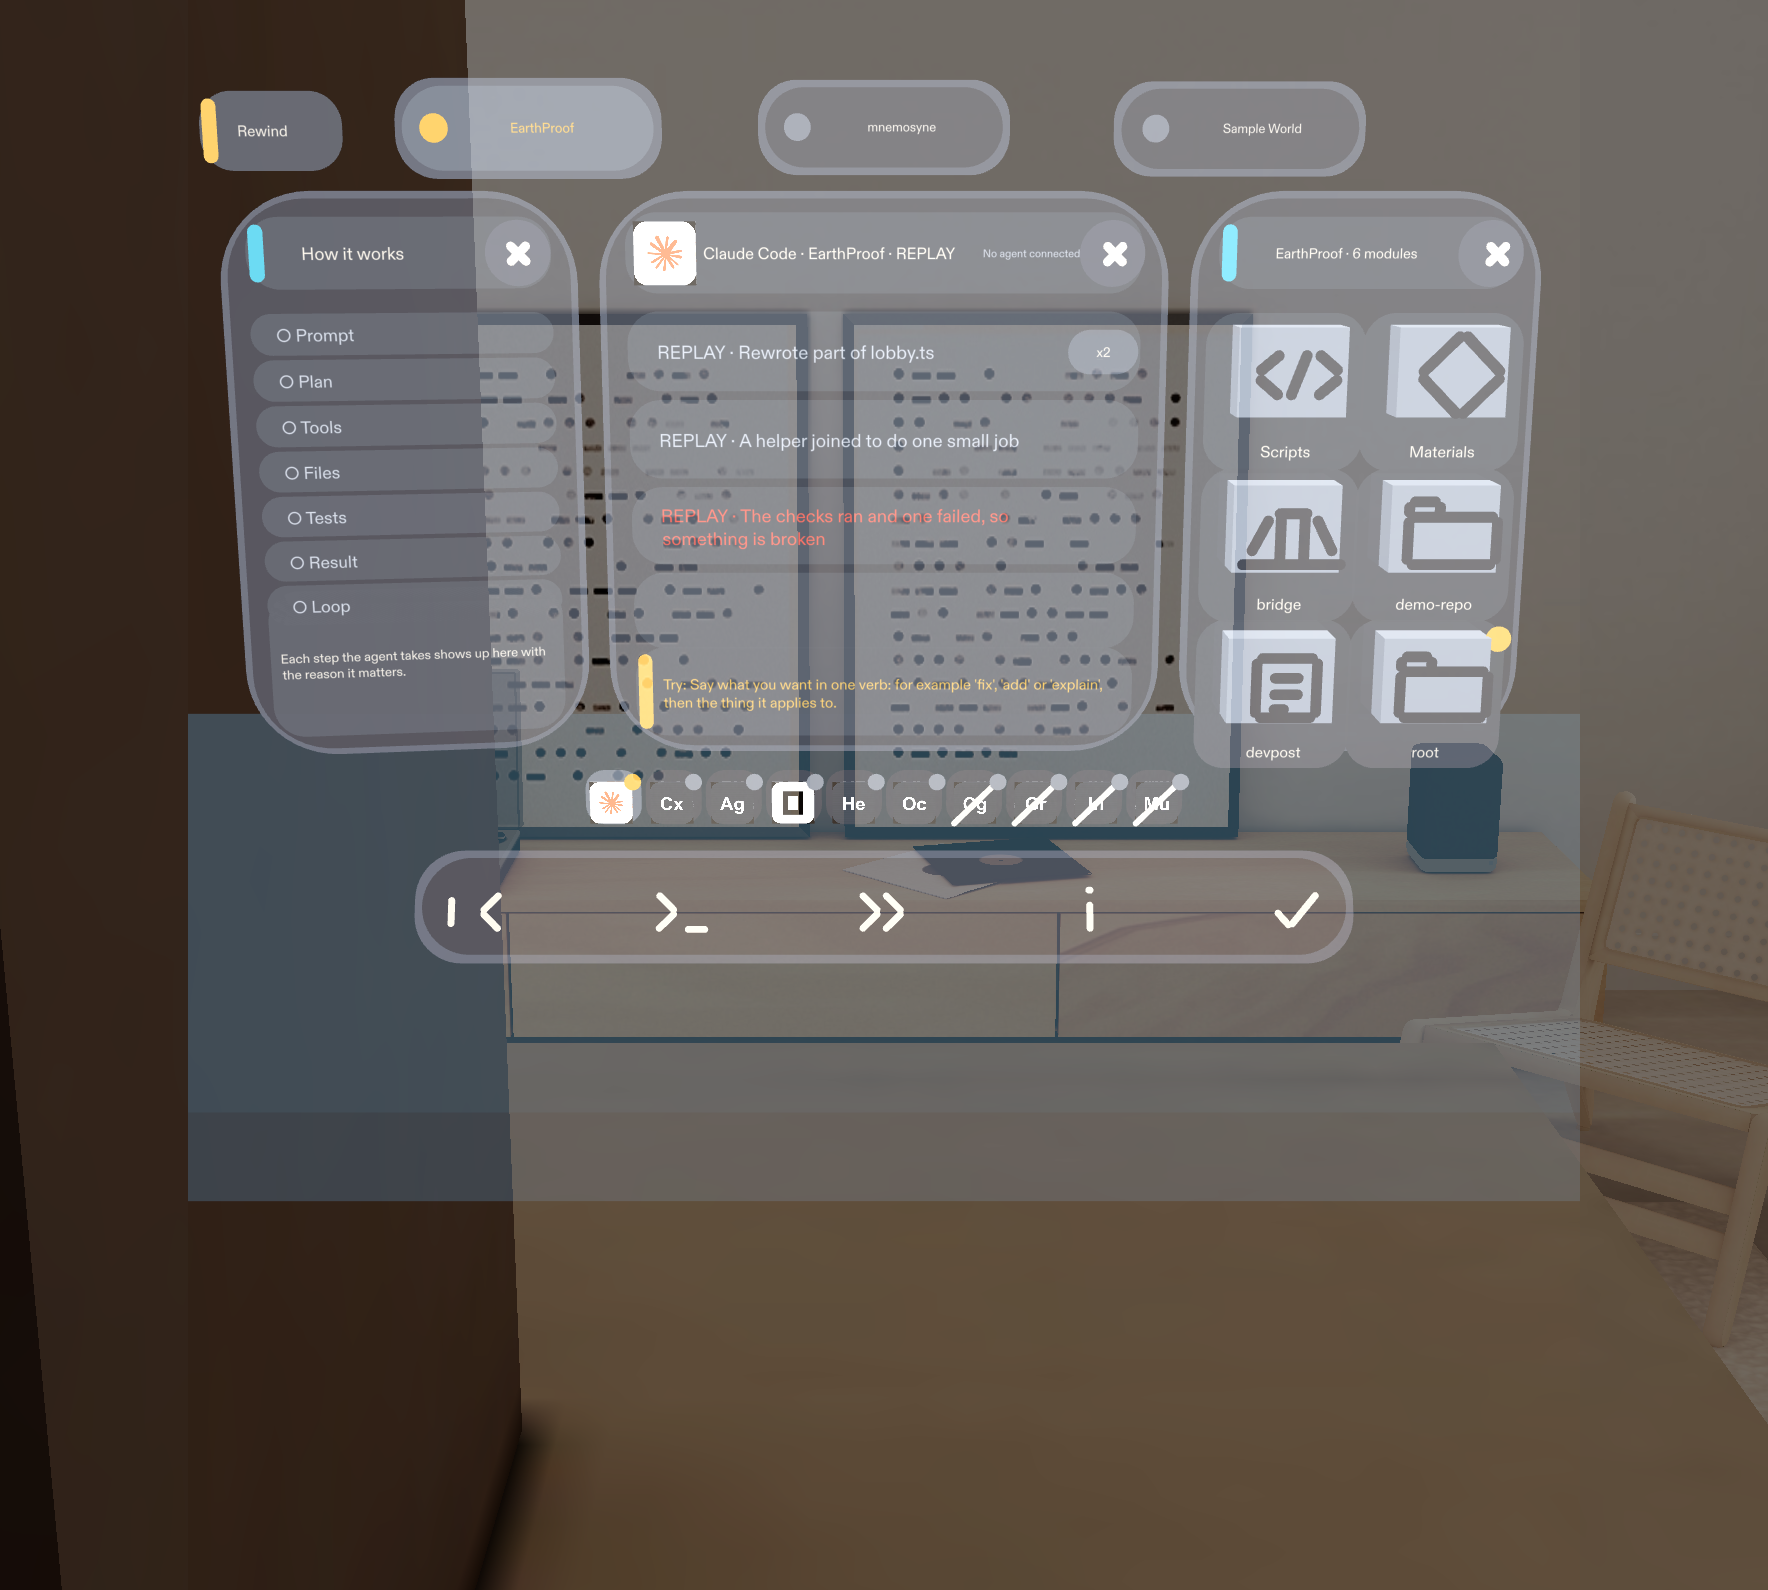
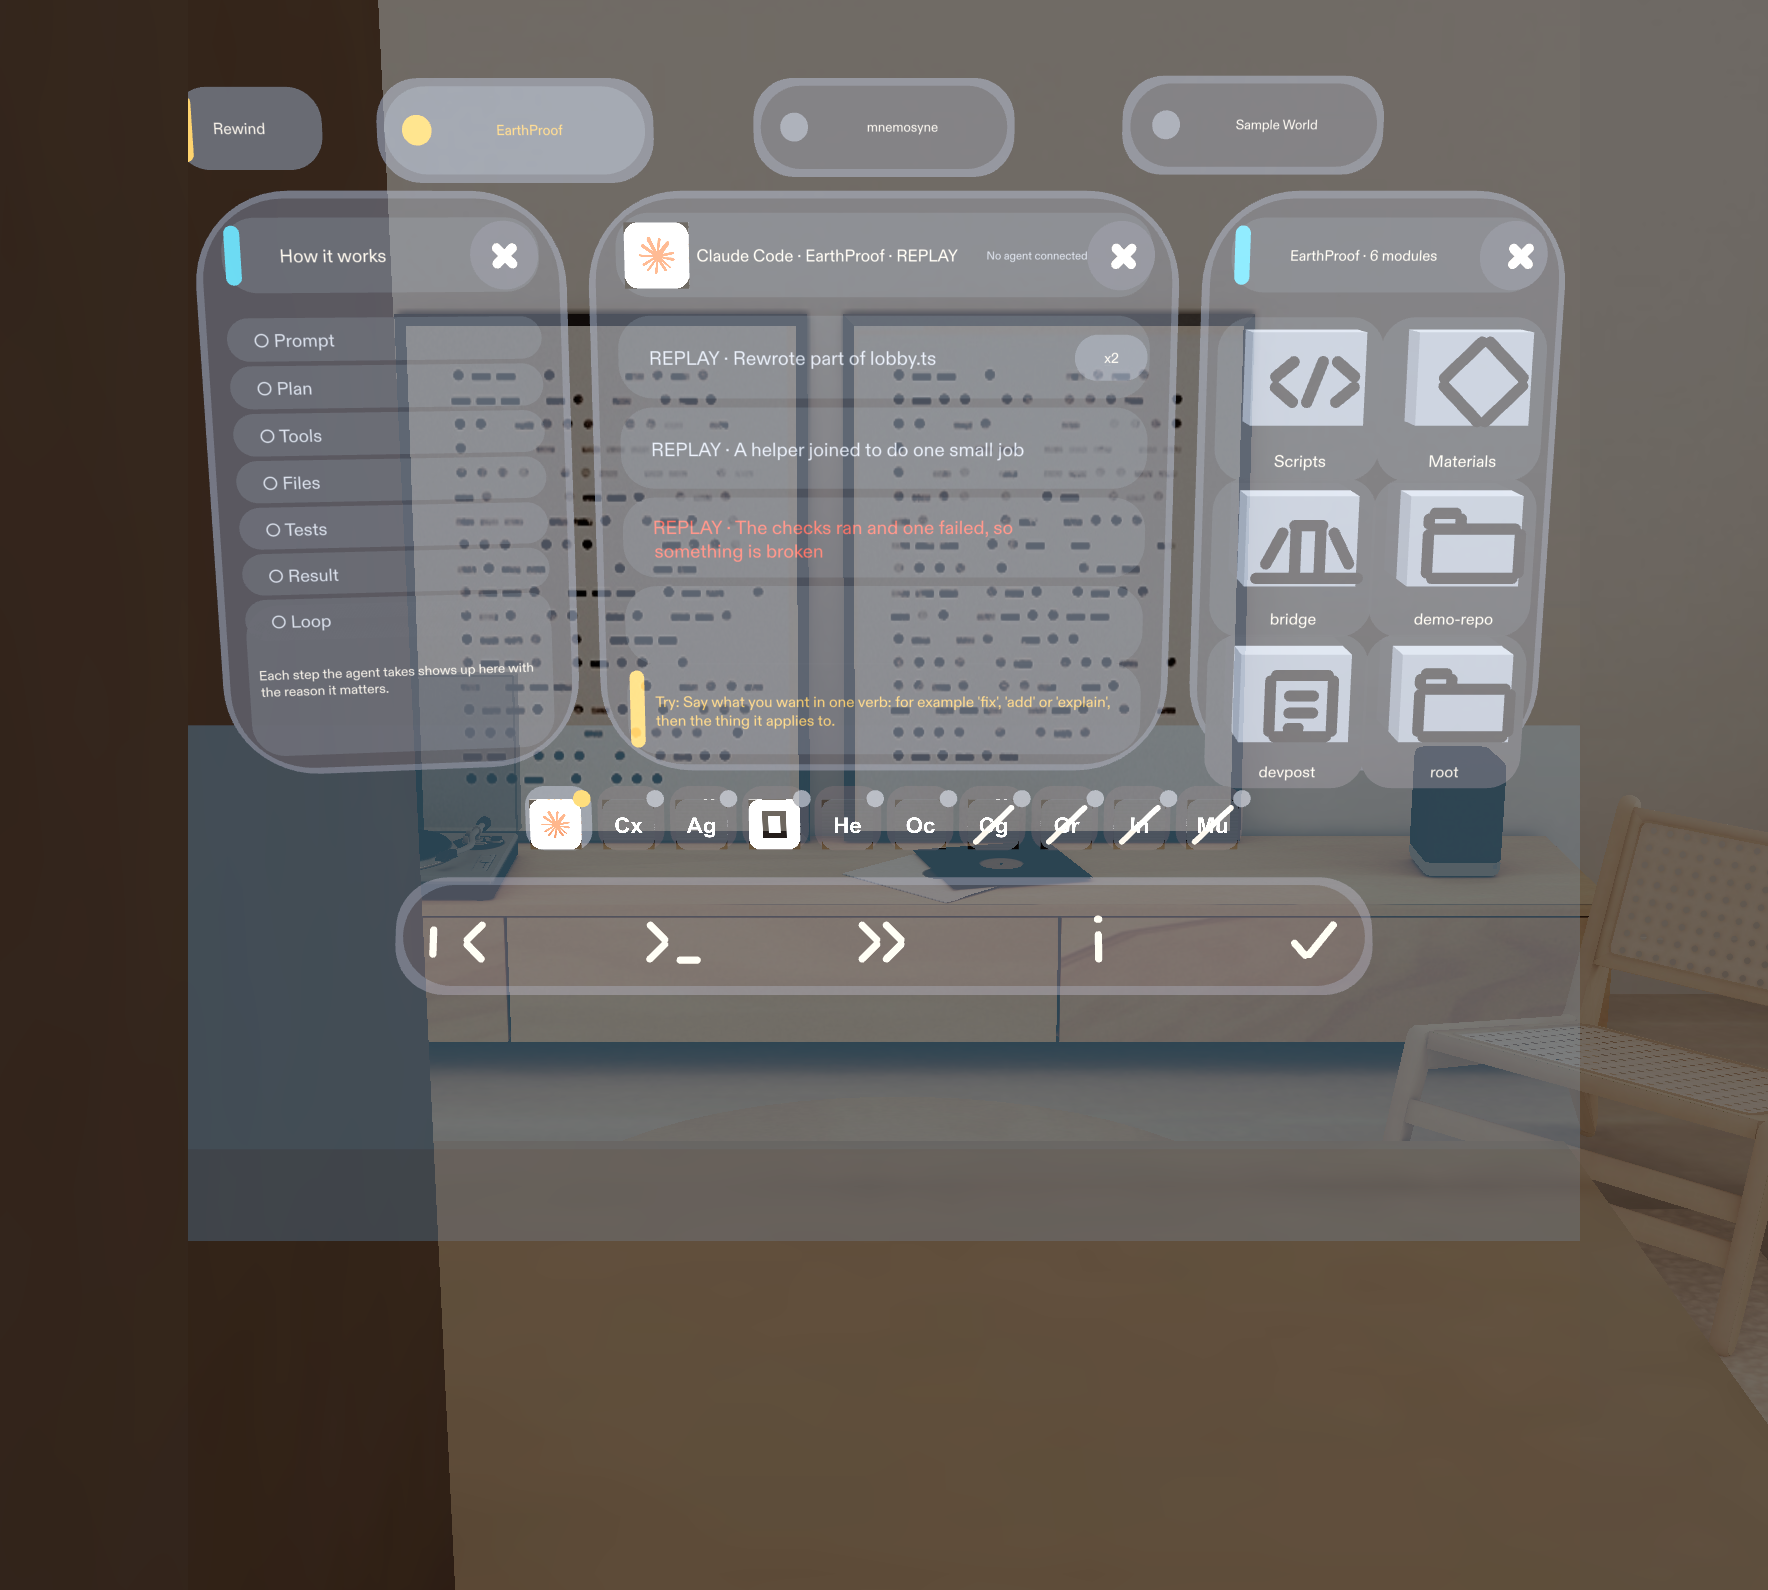
test(g4): LEAF sweep receipt 36/37 (c6-controls legacy Rover FOV known), final v64 agent-row shot

diff --git a/devpost/receipts/leaf-v6-agents-sweep/README.md b/devpost/receipts/leaf-v6-agents-sweep/README.md
@@ -1,0 +1,57 @@
+# LEAF sweep: v6 glass + tiles + icons + Claude mark + agent chip row
+
+Run on branch `visual-emergency-rebuild` at 978aaa4 (+ notices/receipt), Lens Studio 5.23.2 Preview, 2026-11-09 09:56-10:25 local log time.
+Scenarios were run one at a time through the Lens Studio MCP (`run_leaf_scenario`); verdicts below are copied from the Lens Studio log
+(`DefaultLeafScenarioManager ... PASSED:/FAILED:`), latest run of each scenario. Frame time was healthy (scenarios 4-9 s) because the game process that starved the machine earlier was no longer running.
+
+Result: **36 of 37 PASSED, 1 FAILED.**
+
+| Verdict | Scenario | Time |
+|---|---|---|
+| PASSED | L01-scene-boot-provenance | 2.508s |
+| PASSED | L02-project-islands-exist | 2.513s |
+| PASSED | L03-pinch-project-island | 3.521s |
+| PASSED | L04-agent-vessel-and-subagent | 1.161s |
+| PASSED | L05-architecture-city-graph | 1.160s |
+| PASSED | L06-file-edit-pulse | 2.566s |
+| PASSED | L07-test-failure-fault-marker | 2.568s |
+| PASSED | L08-pinch-fault-marker-causal-chain | 1.405s |
+| PASSED | L09-rewind-crystal-diff | 2.972s |
+| PASSED | L10-learning-atelier-prediction | 1.624s |
+| PASSED | L11-safe-action-gate-approve-reject | 1.391s |
+| PASSED | L12-re-run-tests-after-fix | 1.164s |
+| PASSED | L13-reset-baseline | 3.093s |
+| PASSED | L14-control-size-spacing | 1.147s |
+| PASSED | L15-camera-fov-visibility | 1.147s |
+| PASSED | L16-ik-reachability | 8.504s |
+| PASSED | L17-latency-benchmark | 53.083s |
+| PASSED | L18-secret-redaction | 2.647s |
+| PASSED | L19-malformed-event-handling | 1.134s |
+| PASSED | L20-duplicate-out-of-order | 1.148s |
+| PASSED | L21-disconnect-fallback | 2.652s |
+| PASSED | L22-reduced-motion-colour-safe | 1.142s |
+| PASSED | L23-real-workspace-islands | 2.836s |
+| PASSED | L24-pinch-real-module-path | 1.794s |
+| PASSED | L25-feedback-and-rewards | 4.046s |
+| PASSED | L26-agent-orbs-and-flow-pipeline | 3.563s |
+| PASSED | L27-window-minimise-restore | 5.126s |
+| PASSED | c1-layout | 1.799s |
+| PASSED | c2-stall-evidence | 2.656s |
+| PASSED | c3-drop-far | 3.462s |
+| PASSED | c3-swap-pinch | 4.013s |
+| PASSED | c4-pass-proof | 9.174s |
+| PASSED | c5-reset | 9.088s |
+| FAILED | c6-controls | 1.784s |
+| PASSED | c6-ik-reach | 7.301s |
+| PASSED | c7-latency | 51.805s |
+| PASSED | L28-agent-chips | (run after the table was cut; passed 3x, last ~4 s) |
+
+## The one failure
+`c6-controls` (legacy Rover task, not the Build Alive UI): the old "Small" motor-block slot is 22.5 deg right of the gaze, outside the +-16 deg horizontal field of view the test computes.
+It fails identically with the Preview camera reset to default, so it is not caused by the Build Alive camera pose; it is a layout check for the original Rover lens that Build Alive does not use. Not fixed.
+
+## c3-swap-pinch and c4-pass-proof
+Both failed earlier on this branch while the machine was starved (frame time 320-430 ms). Both PASS here at normal frame rate (4.0 s and 9.2 s), which is evidence for the starvation explanation. It is not proof of a code root cause.
+
+## Not covered
+No live Claude Code hook event was proven (Experimental APIs still not effective in Lens Studio). Provider status stays REPLAY. Nothing here ran on glasses.
